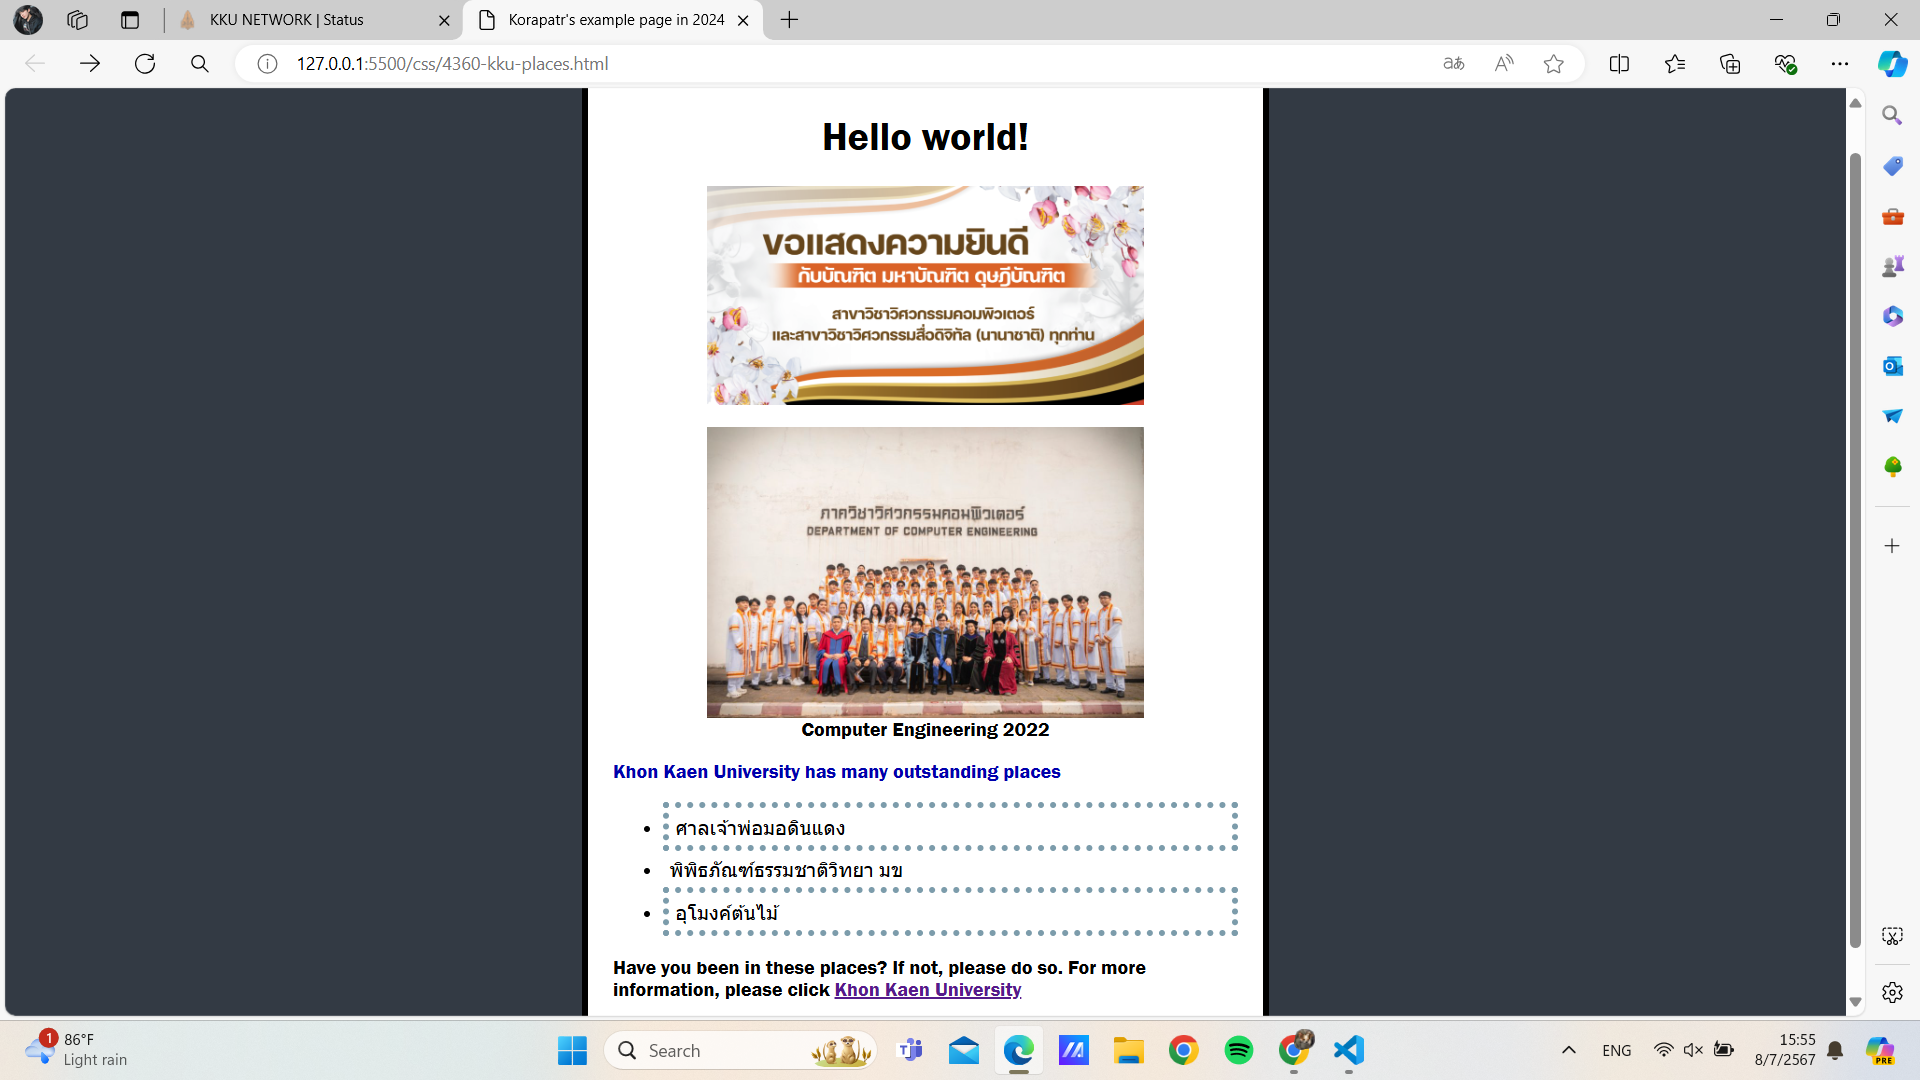
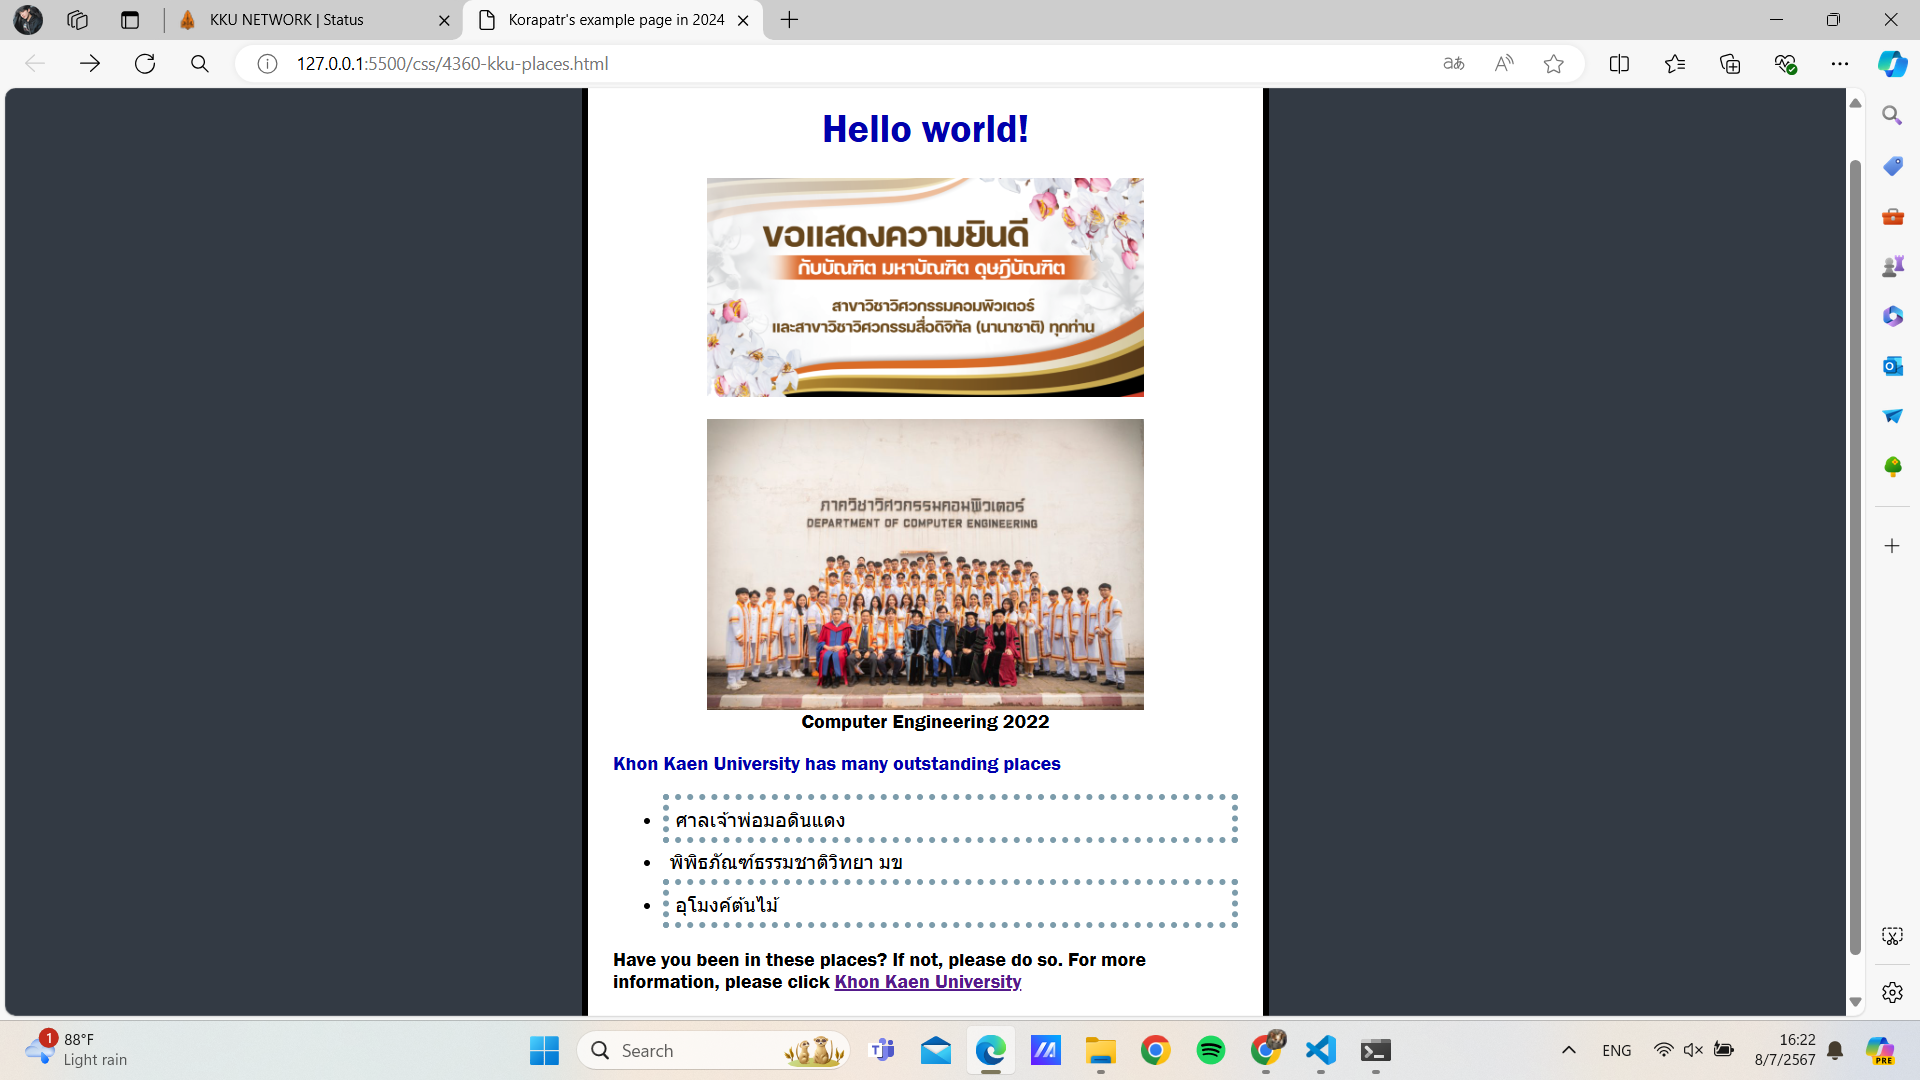
update

Changed region(s): [[0.2812, 0.4583, 0.7188, 1.0], [0.3438, 0.0917, 0.5938, 0.3972]]

diff --git a/css/4360-kku-places.html b/css/4360-kku-places.html
@@ -19,8 +19,9 @@
                 font-family:'Franklin Gothic Medium', 'Arial Narrow', Arial, sans-serif;
             }
             
-            h1 {
-                text-align: center;   
+            #heading {
+                text-align: center;
+                color: rgb(0, 0, 173);   
             }
 
             .image {
@@ -38,14 +39,14 @@
                 padding: 5px;
             }
 
-            #listStyle li:nth-child(odd){
+            .listStyle {
                 border:5px dotted #7C9CAB;      
             }
         </style>
 
         <div id = "content">
 
-            <h1>Hello world!</h1>
+            <h1 id = heading >Hello world!</h1>
 
             <img src="https://gear.kku.ac.th/wp-content/uploads/2022/12/cong-936x469.png" 
             width="70%" height="70%" alt="pic" class = "image"/><br>
@@ -56,10 +57,10 @@
             <p style="color: rgb(0, 0, 173);">Khon Kaen University has many outstanding places</p>
 
             <ul>
-                <div id="listStyle">
-                    <li>ศาลเจ้าพ่อมอดินแดง</li>
+                <div>
+                    <li class="listStyle">ศาลเจ้าพ่อมอดินแดง</li>
                     <li>พิพิธภัณฑ์ธรรมชาติวิทยา มข</li>
-                    <li>อุโมงค์ต้นไม้</li>
+                    <li class="listStyle">อุโมงค์ต้นไม้</li>
                 </div>
             </ul>
 
